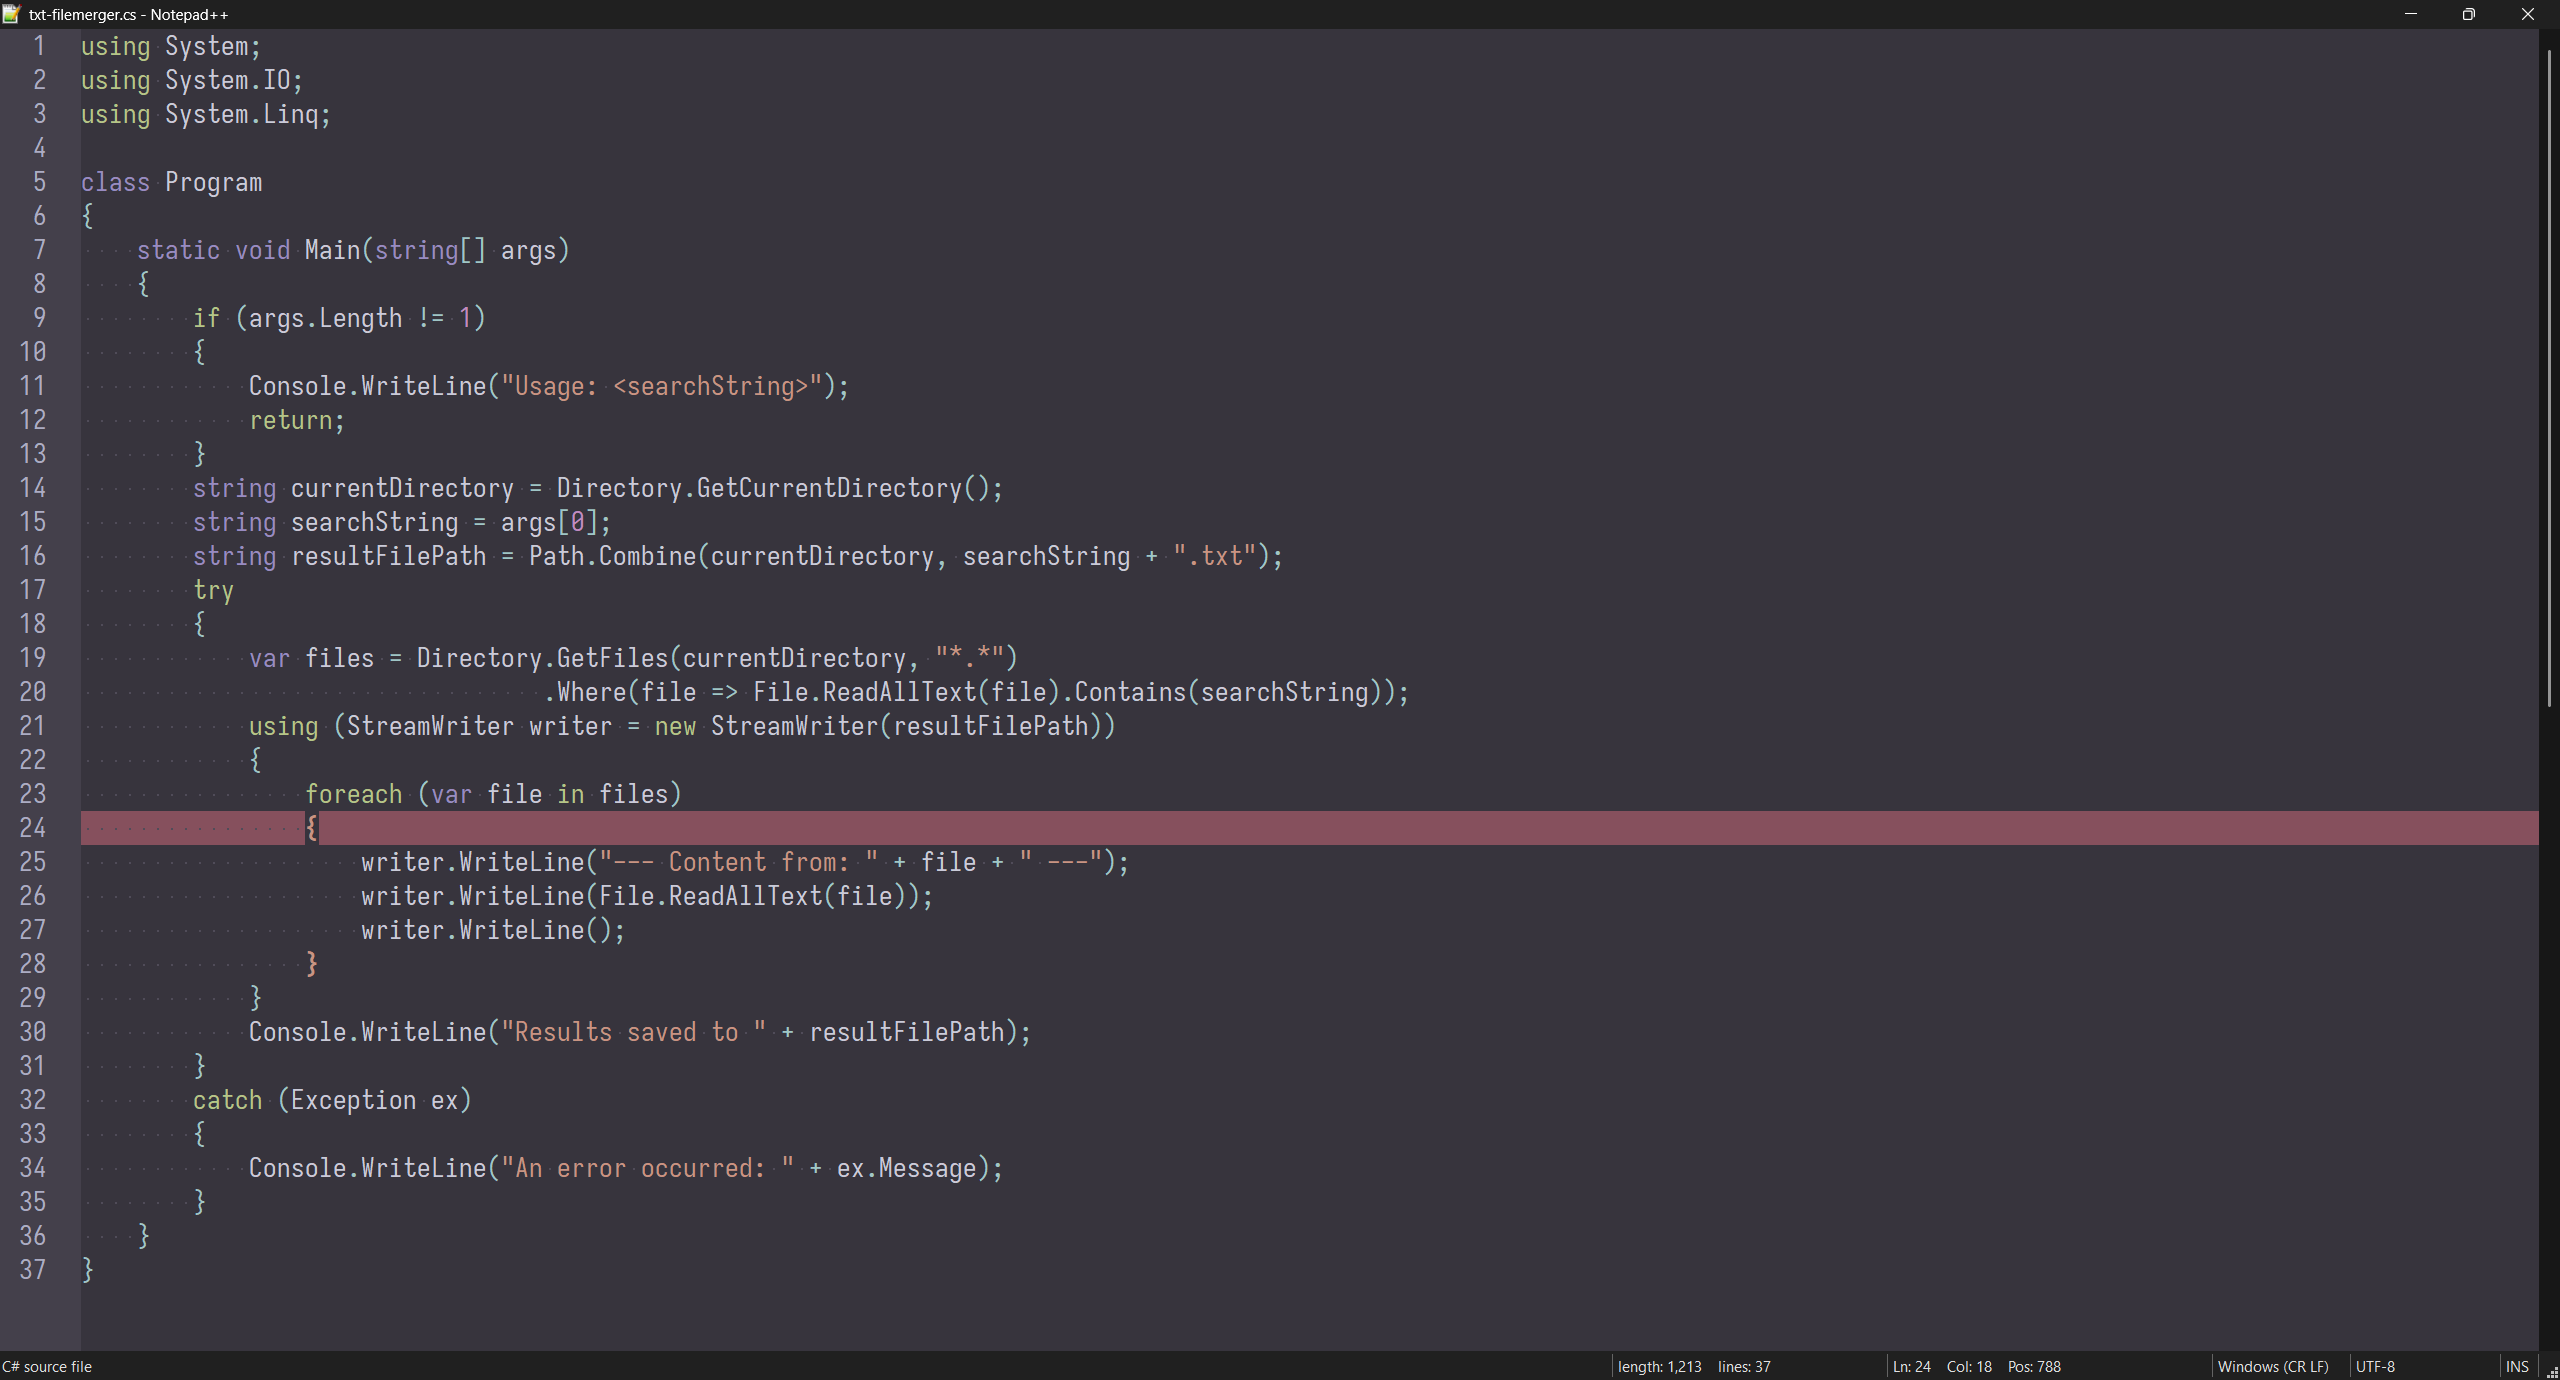
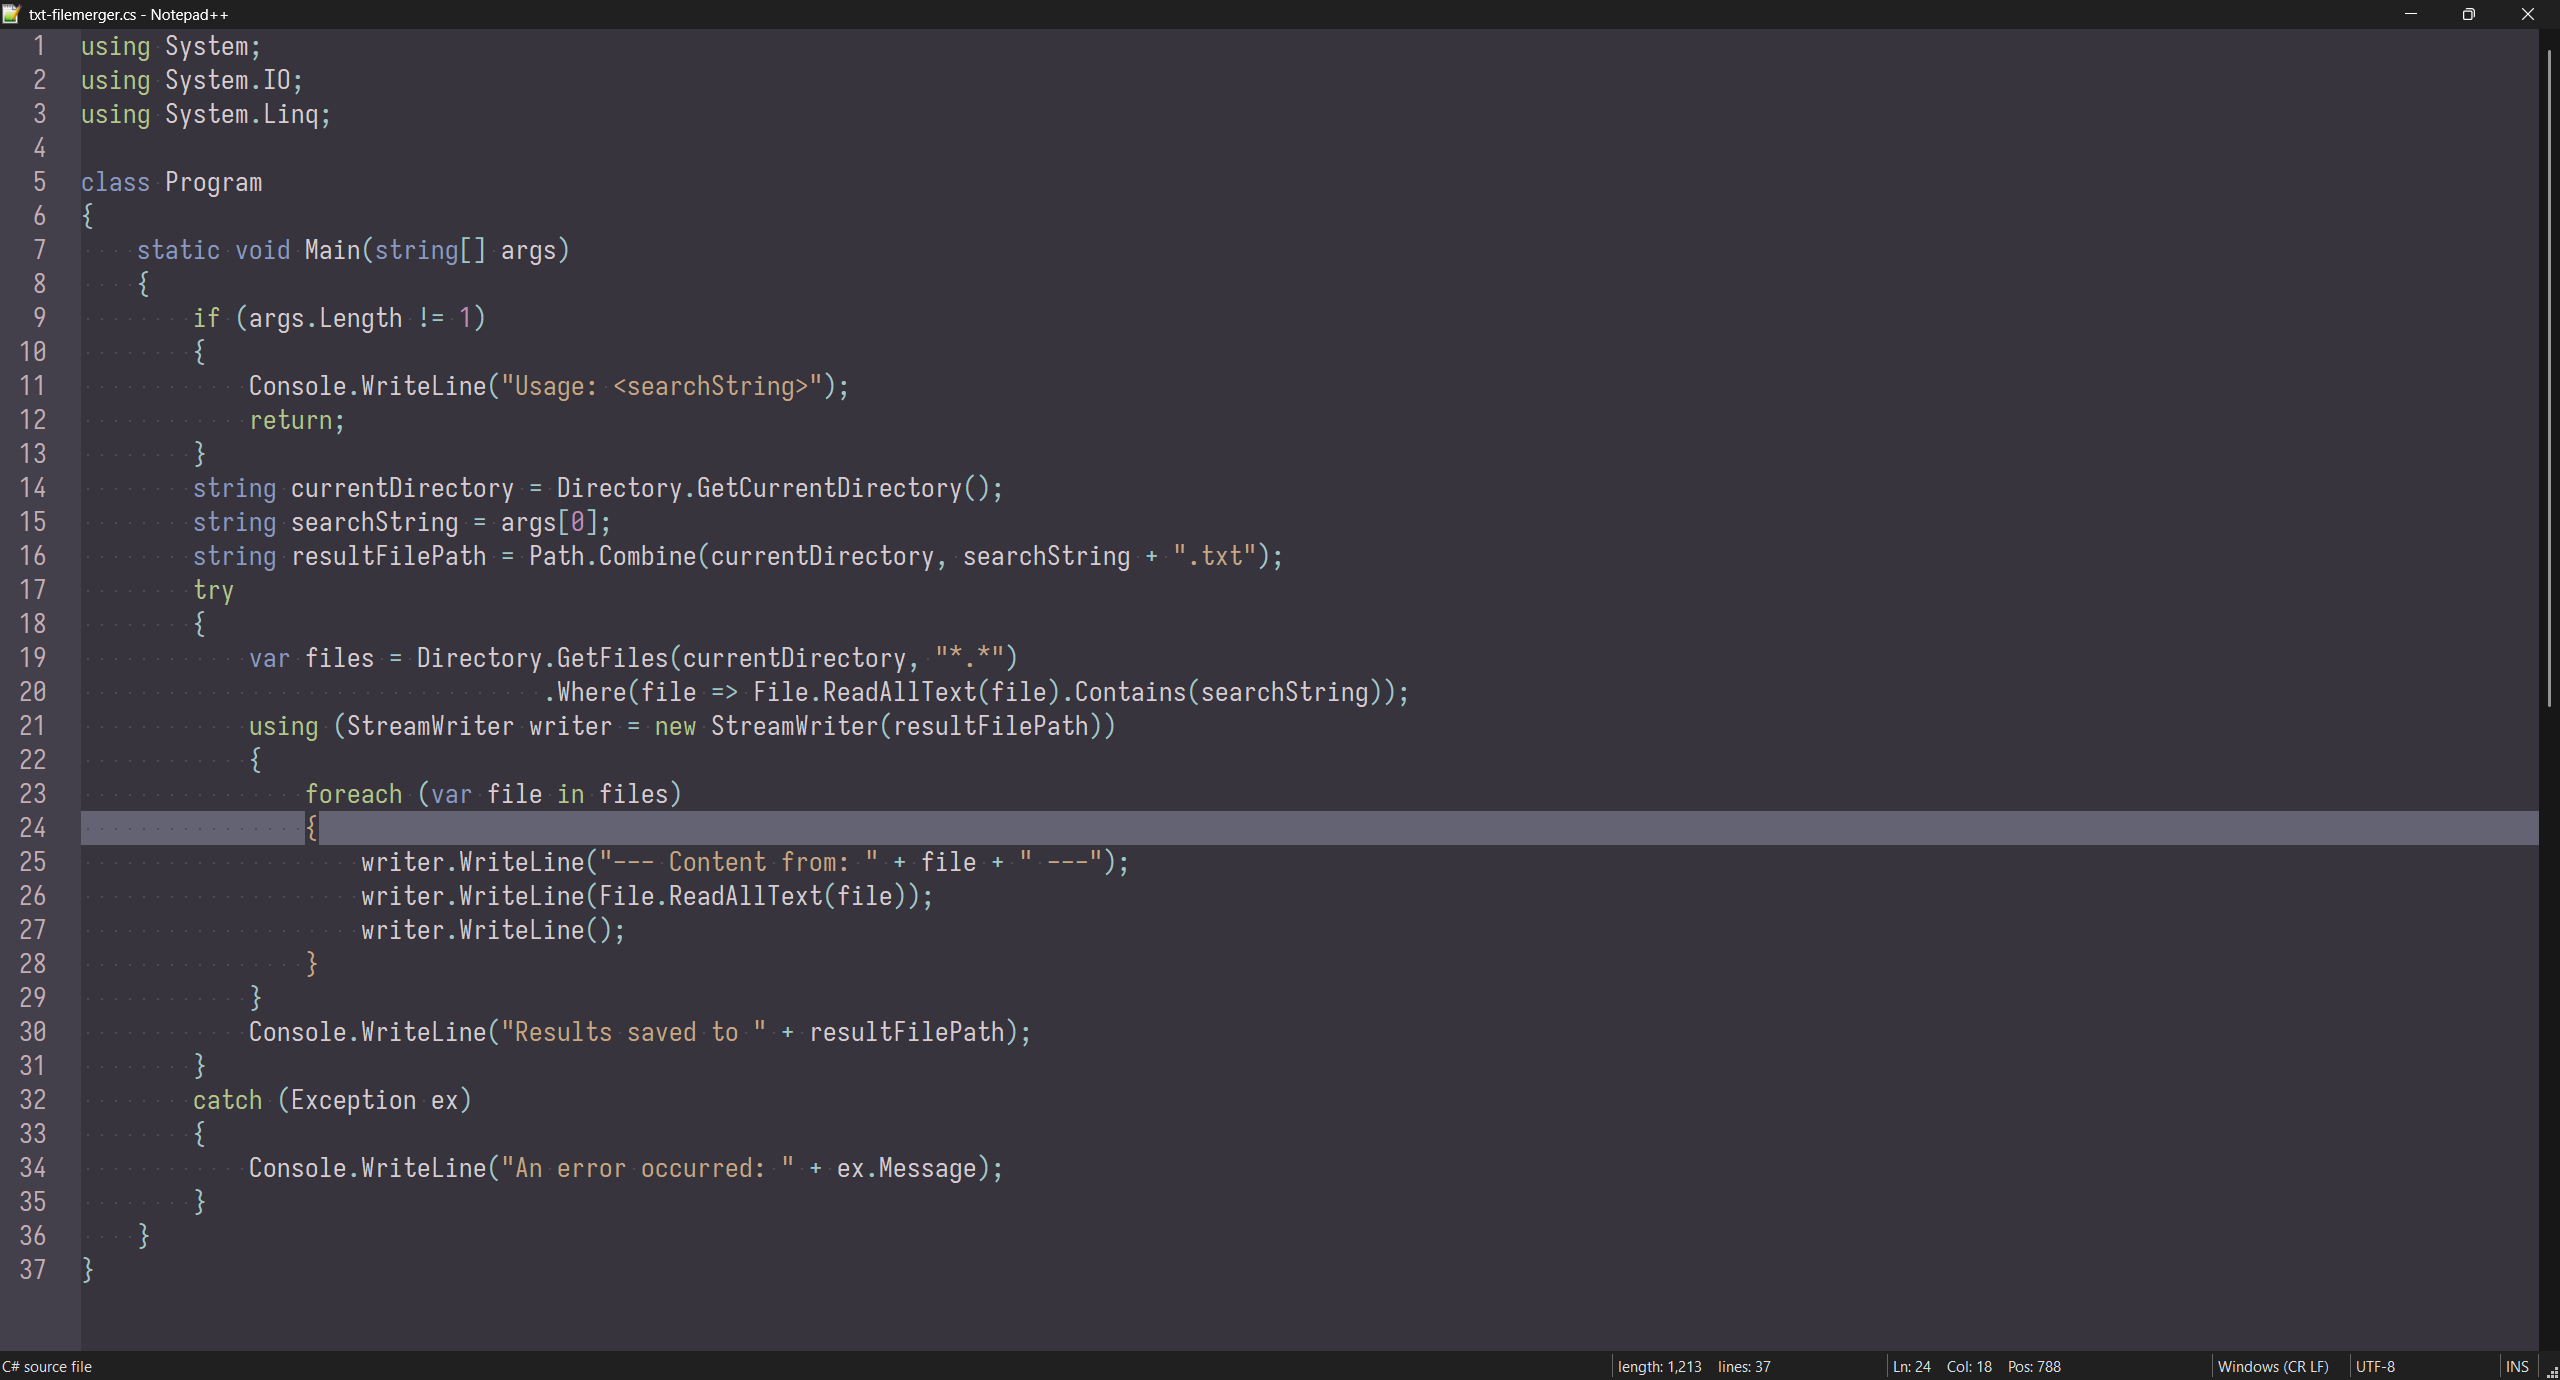
rework rage theme

Changed region(s): [[0.0312, 0.5609, 1.0, 0.6232]]

diff --git a/scheme_files/other/rage.html b/scheme_files/other/rage.html
@@ -42,33 +42,33 @@ this template is meant as a reference sheet for your color theme
 			<tr>
 				<td>Foreground - 1st level<br><a>UI: cursor
                 <br>SYNTAX: default text</a></td>
-				<td>#cacad8</td>
-				<td style="background-color:#cacad8;"></td>
+				<td>#d8cace</td>
+				<td style="background-color:#d8cace;"></td>
 			</tr>
 			<tr>
 				<td>Foreground - 2nd level<br><a>UI: 2nd level surfaces fg, inactive tab or file fg</td>
-				<td>#acacc3</td>
-				<td style="background-color:#acacc3;"></td>
+				<td>#c3acb3</td>
+				<td style="background-color:#c3acb3;"></td>
 			</tr>
 			<tr>
 				<td>Foreground - 3rd level<br><a>UI: fold, line numbers<br>SYNTAX: comments</a></td>
-				<td>#b2b2bd</td>
-				<td style="background-color:#b2b2bd;"></td>
+				<td>#bdb2b5</td>
+				<td style="background-color:#bdb2b5;"></td>
 			</tr>
 			<tr>
 				<td>Highlight - 1st level<br><a>UI: alternative marks</a></td>
-				<td>#b68691</td>
-				<td style="background-color:#b68691;"></td>
+				<td>#9797a6</td>
+				<td style="background-color:#9797a6;"></td>
 			</tr>	
 			<tr>
 				<td>Highlight - 2nd level<br><a>UI: selection, search marks, fold marks</a></td>
-				<td>#a36674</td>
-				<td style="background-color:#a36674;"></td>
+				<td>#7b7b8e</td>
+				<td style="background-color:#7b7b8e;"></td>
 			</tr>	
 			<tr>
 				<td>Highlight - 3rd level<br><a>UI: current line</a></td>
-				<td>#86505d</td>
-				<td style="background-color:#86505d;"></td>
+				<td>#636373</td>
+				<td style="background-color:#636373;"></td>
 			</tr>
 		</table>
 		<br>
@@ -83,14 +83,14 @@ this template is meant as a reference sheet for your color theme
 			<tr>
 				<td>syntax 1<br><a>UI: change history modified, alert, error
                 <br>SYNTAX: macro, methods, functions, symbols (question mark, shebang, etc.)<br>TERMINAL: red</a></td>
-				<td>#c587a7</td>
-				<td style="background-color:#c587a7;"></td>
+				<td>#c5879c</td>
+				<td style="background-color:#c5879c;"></td>
 			</tr>
 			<tr>
 				<td>syntax 2<br><a>UI: change history revert origin, change history revert modified, warnings
                 <br>SYNTAX: strings, char, regex, verbatim<br>TERMINAL: yellow</a></td>
-				<td>#c99482</td>
-				<td style="background-color:#c99482;"></td>
+				<td>#c9a582</td>
+				<td style="background-color:#c9a582;"></td>
 			</tr>
 			<tr>
 				<td>syntax 3<br><a>SYNTAX: opertors, variables, identifiers<br>TERMINAL: cyan</a></td>
@@ -105,13 +105,13 @@ this template is meant as a reference sheet for your color theme
 			</tr>
 			<tr>
 				<td>syntax 5<br><a>SYNTAX: keys, types, class, groups, sections, preprocessor<br>TERMINAL: blue</a></td>
-				<td>#988bc1</td>
-				<td style="background-color:#988bc1;"></td>
+				<td>#8b99c1</td>
+				<td style="background-color:#8b99c1;"></td>
 			</tr>
 			<tr>
 				<td>syntax 6<br><a>SYNTAX: qualifier, numbers, booleans, attributes<br>TERMINAL: magenta (purple)</a></td>
-				<td>#c18bc1</td>
-				<td style="background-color:#c18bc1;"></td>
+				<td>#c18bb8</td>
+				<td style="background-color:#c18bb8;"></td>
 			</tr>
 		</table>
 		<br>
